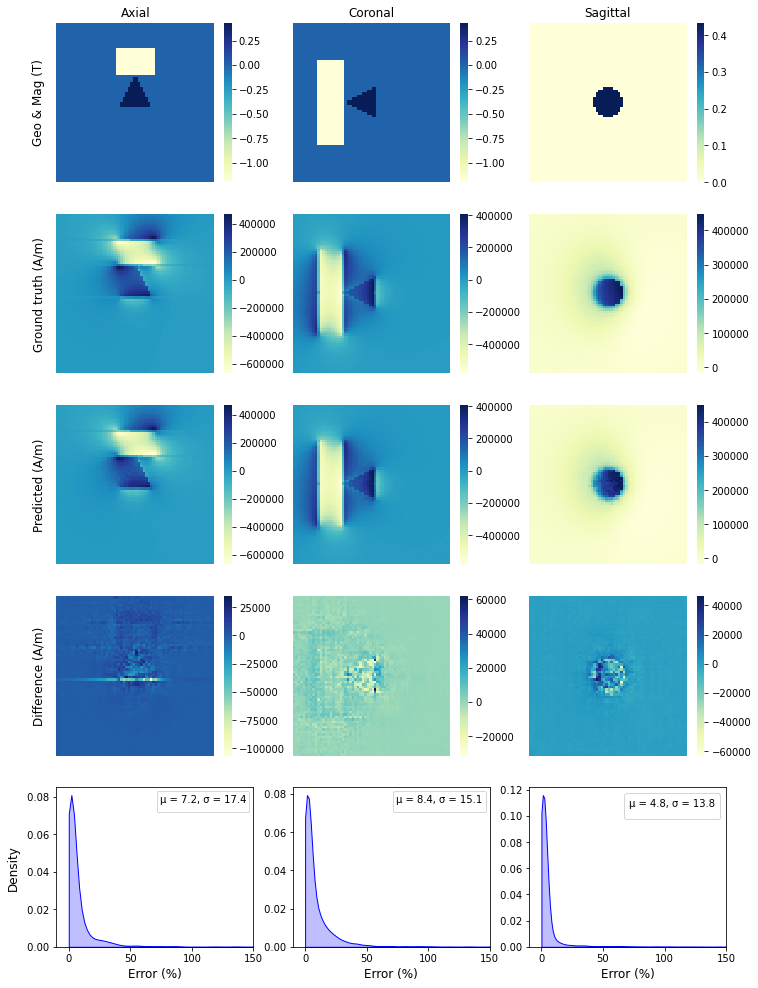
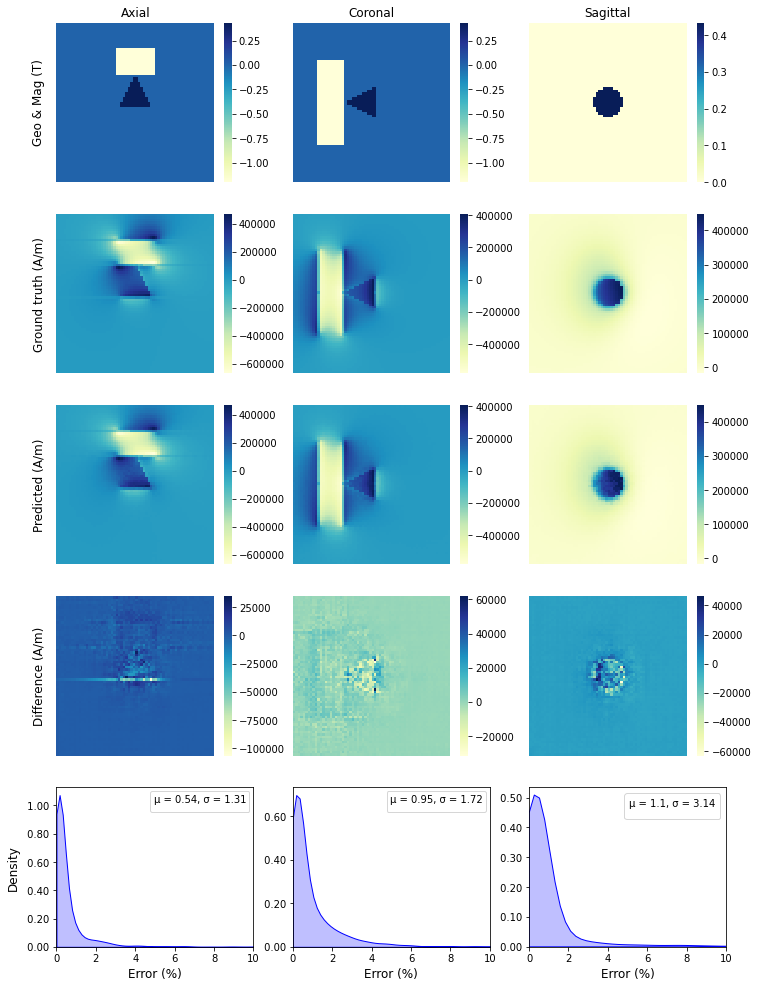
Errors computed changes

diff --git a/utils.py b/utils.py
@@ -119,8 +119,8 @@ def view_slices_3d(geometry, st_axial_l, st_axial_p, slice_, title=''):
     ga.tick_params(bottom=False, left=False)
     
     # -----------Plotting distribution of normalised error ------------------------------
-    interq_991 = np.subtract(*np.percentile(np.take(err, slice_, 2).flatten(), [99, 1]))
-    errors = abs(np.take(err, slice_, 2).flatten())*100/interq_991
+    interq_955 = np.subtract(*np.percentile(np.take(st_axial_l, slice_, 2).flatten(), [95, 5])) #originally replace err with st_axial_l
+    errors = abs(np.take(err, slice_, 2).flatten())*100/interq_955
     mean = np.mean(errors)
     std = np.std(errors)
 
@@ -129,11 +129,11 @@ def view_slices_3d(geometry, st_axial_l, st_axial_p, slice_, title=''):
     plt.gca().yaxis.set_major_formatter(StrMethodFormatter('{x: .2f}')) # set yaxis to 2 decimal places
     plt.xlabel('Error (%)', fontsize=12)
     plt.legend(title='\u03BC = {:2.2}, \u03C3 = {:0.3}'.format(mean, std), fontsize=8)
-    ga.set(xlim=(-10, 150))
+    ga.set(xlim=(0, 10))
     plt.ylabel('Density', fontsize=12)
 
-    interq_991 = np.subtract(*np.percentile(ndimage.rotate(np.take(err, slice_, 1),90).flatten(), [99, 1]))
-    errors = abs(ndimage.rotate(np.take(err, slice_, 1),90))*100/interq_991
+    interq_955 = np.subtract(*np.percentile(ndimage.rotate(np.take(st_axial_l, slice_, 1),90).flatten(), [95, 55]))
+    errors = abs(ndimage.rotate(np.take(err, slice_, 1),90))*100/interq_955
     mean = np.mean(errors)
     std = np.std(errors)
 
@@ -143,10 +143,10 @@ def view_slices_3d(geometry, st_axial_l, st_axial_p, slice_, title=''):
     plt.xlabel('Error (%)', fontsize=12)
     plt.legend(title='\u03BC = {:2.2}, \u03C3 = {:0.3}'.format(mean, std), fontsize=8)
     ga.set(ylabel=None)
-    ga.set(xlim=(-10, 150))
+    ga.set(xlim=(0, 20))
 
-    interq_991 = np.subtract(*np.percentile(ndimage.rotate(np.take(err, slice_, 0),90).flatten(), [99, 1]))
-    errors = abs(ndimage.rotate(np.take(err, slice_, 0),90))*100/interq_991
+    interq_955 = np.subtract(*np.percentile(ndimage.rotate(np.take(st_axial_l, slice_, 0),90).flatten(), [95, 5]))
+    errors = abs(ndimage.rotate(np.take(err, slice_, 0),90))*100/interq_955
     mean = np.mean(errors)
     std = np.std(errors)
 
@@ -156,7 +156,7 @@ def view_slices_3d(geometry, st_axial_l, st_axial_p, slice_, title=''):
     plt.xlabel('Error (%)', fontsize=12)
     plt.legend(title='\u03BC = {:2.2}, \u03C3 = {:0.3}'.format(mean, std), fontsize=12)
     ga.set(ylabel=None)
-    ga.set(xlim=(-10, 150))
+    ga.set(xlim=(0, 40))
 
     plt.subplots_adjust()
     plt.show()
